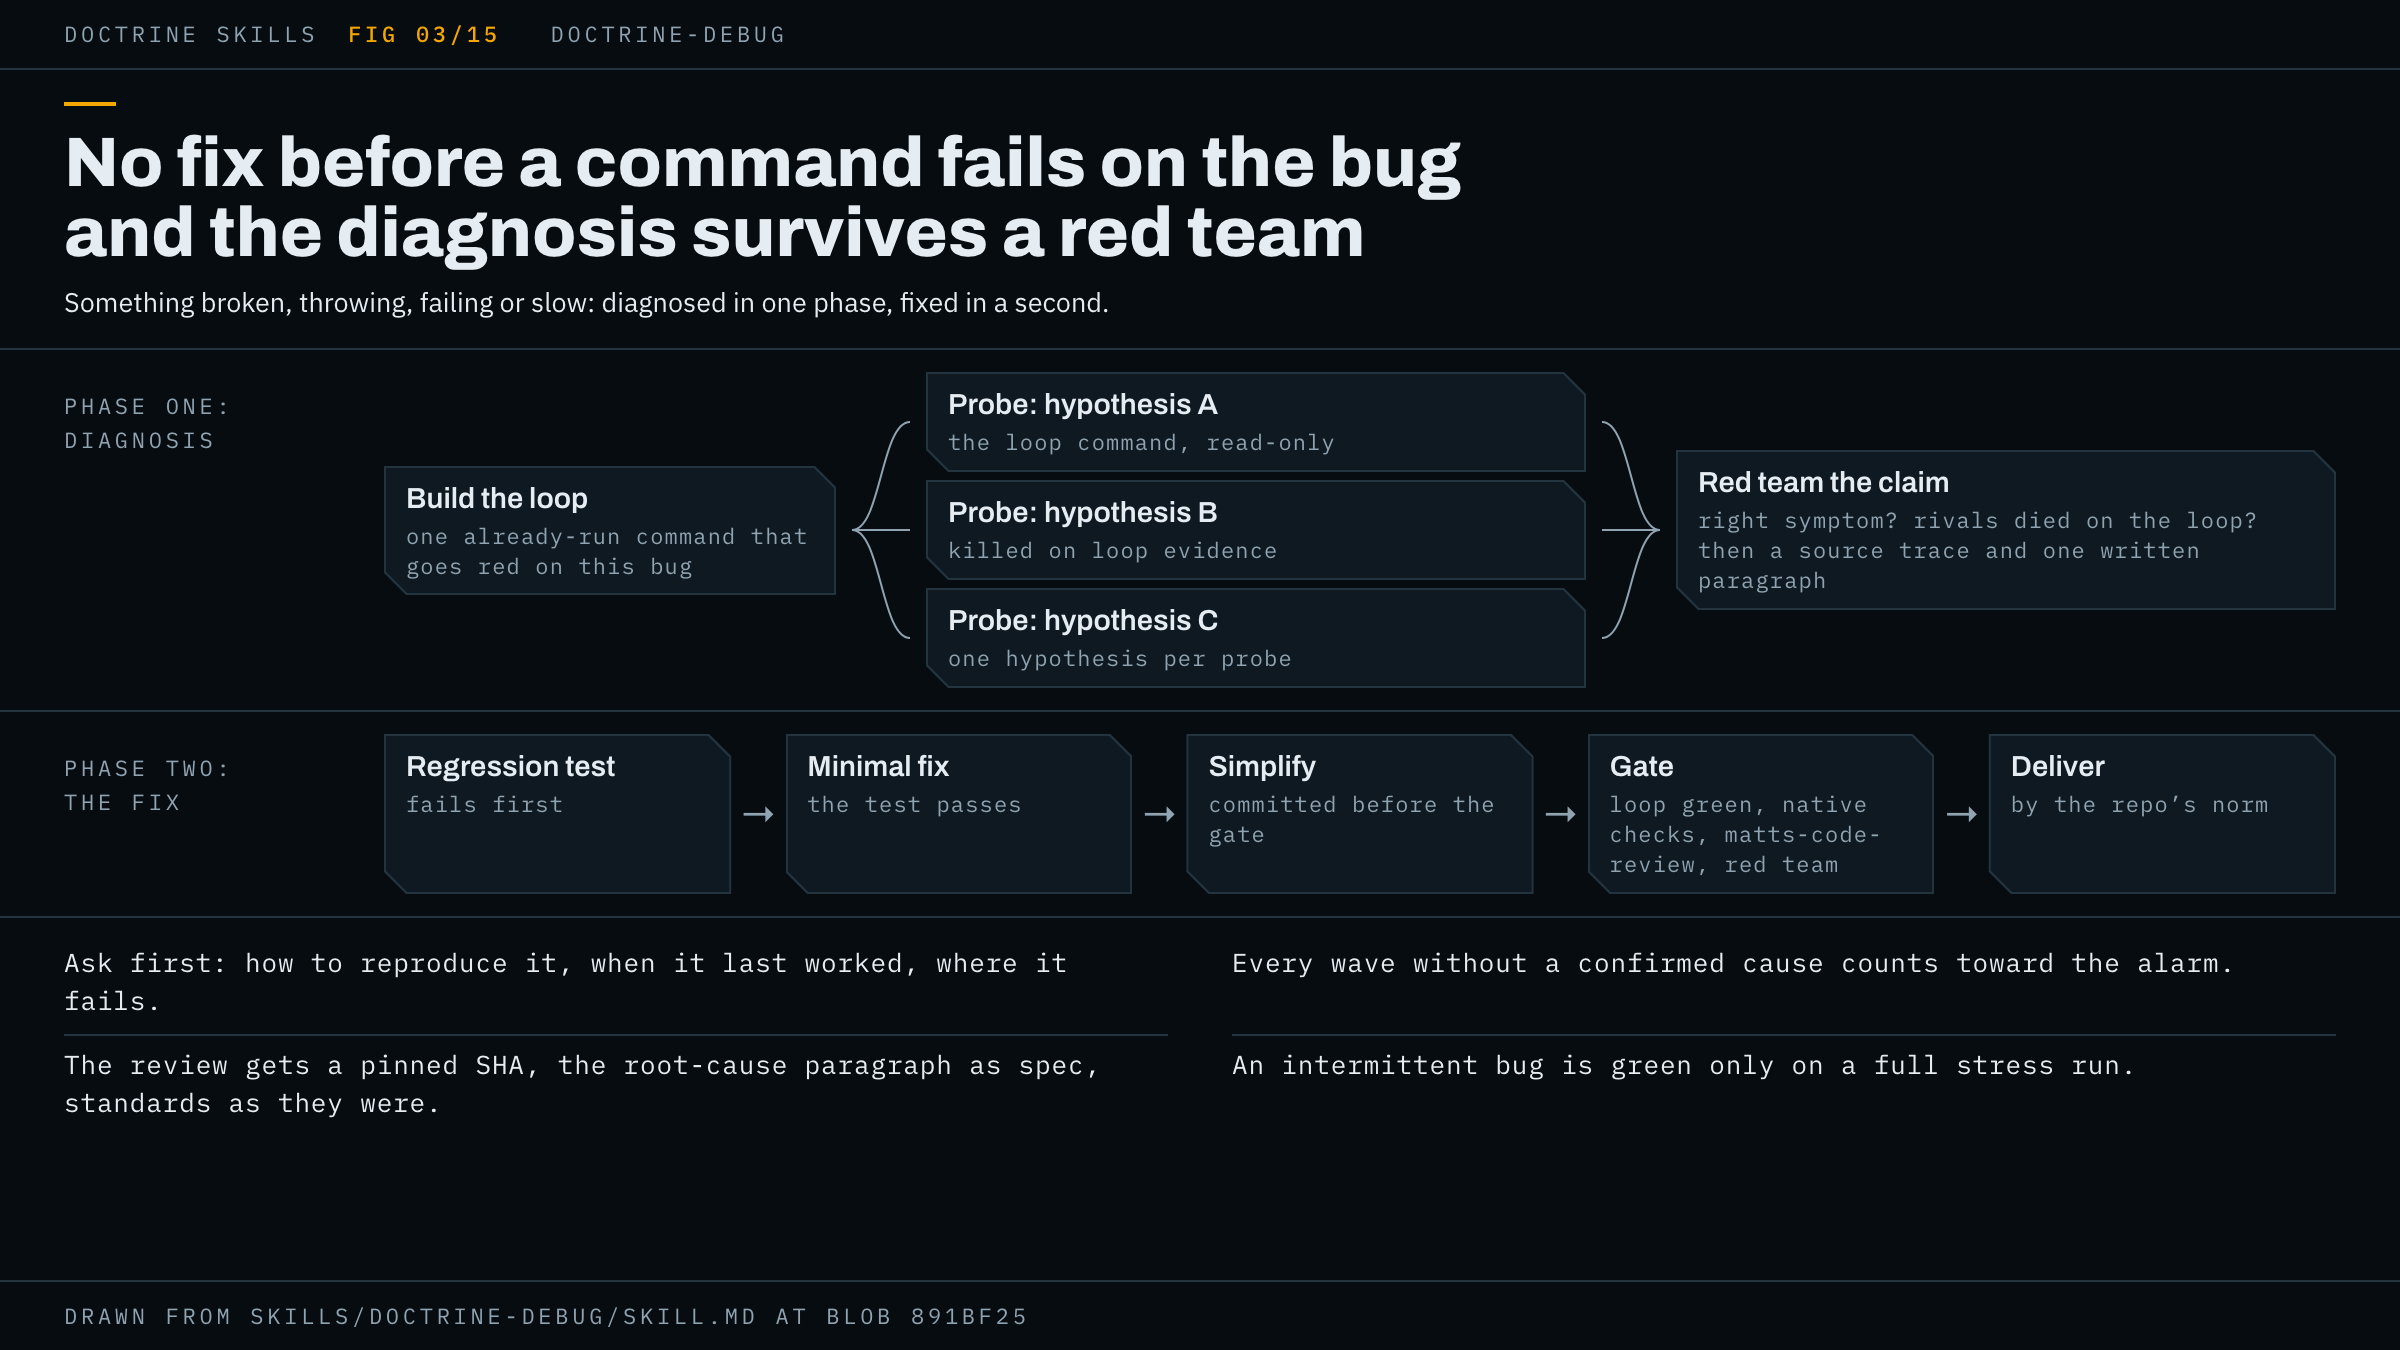
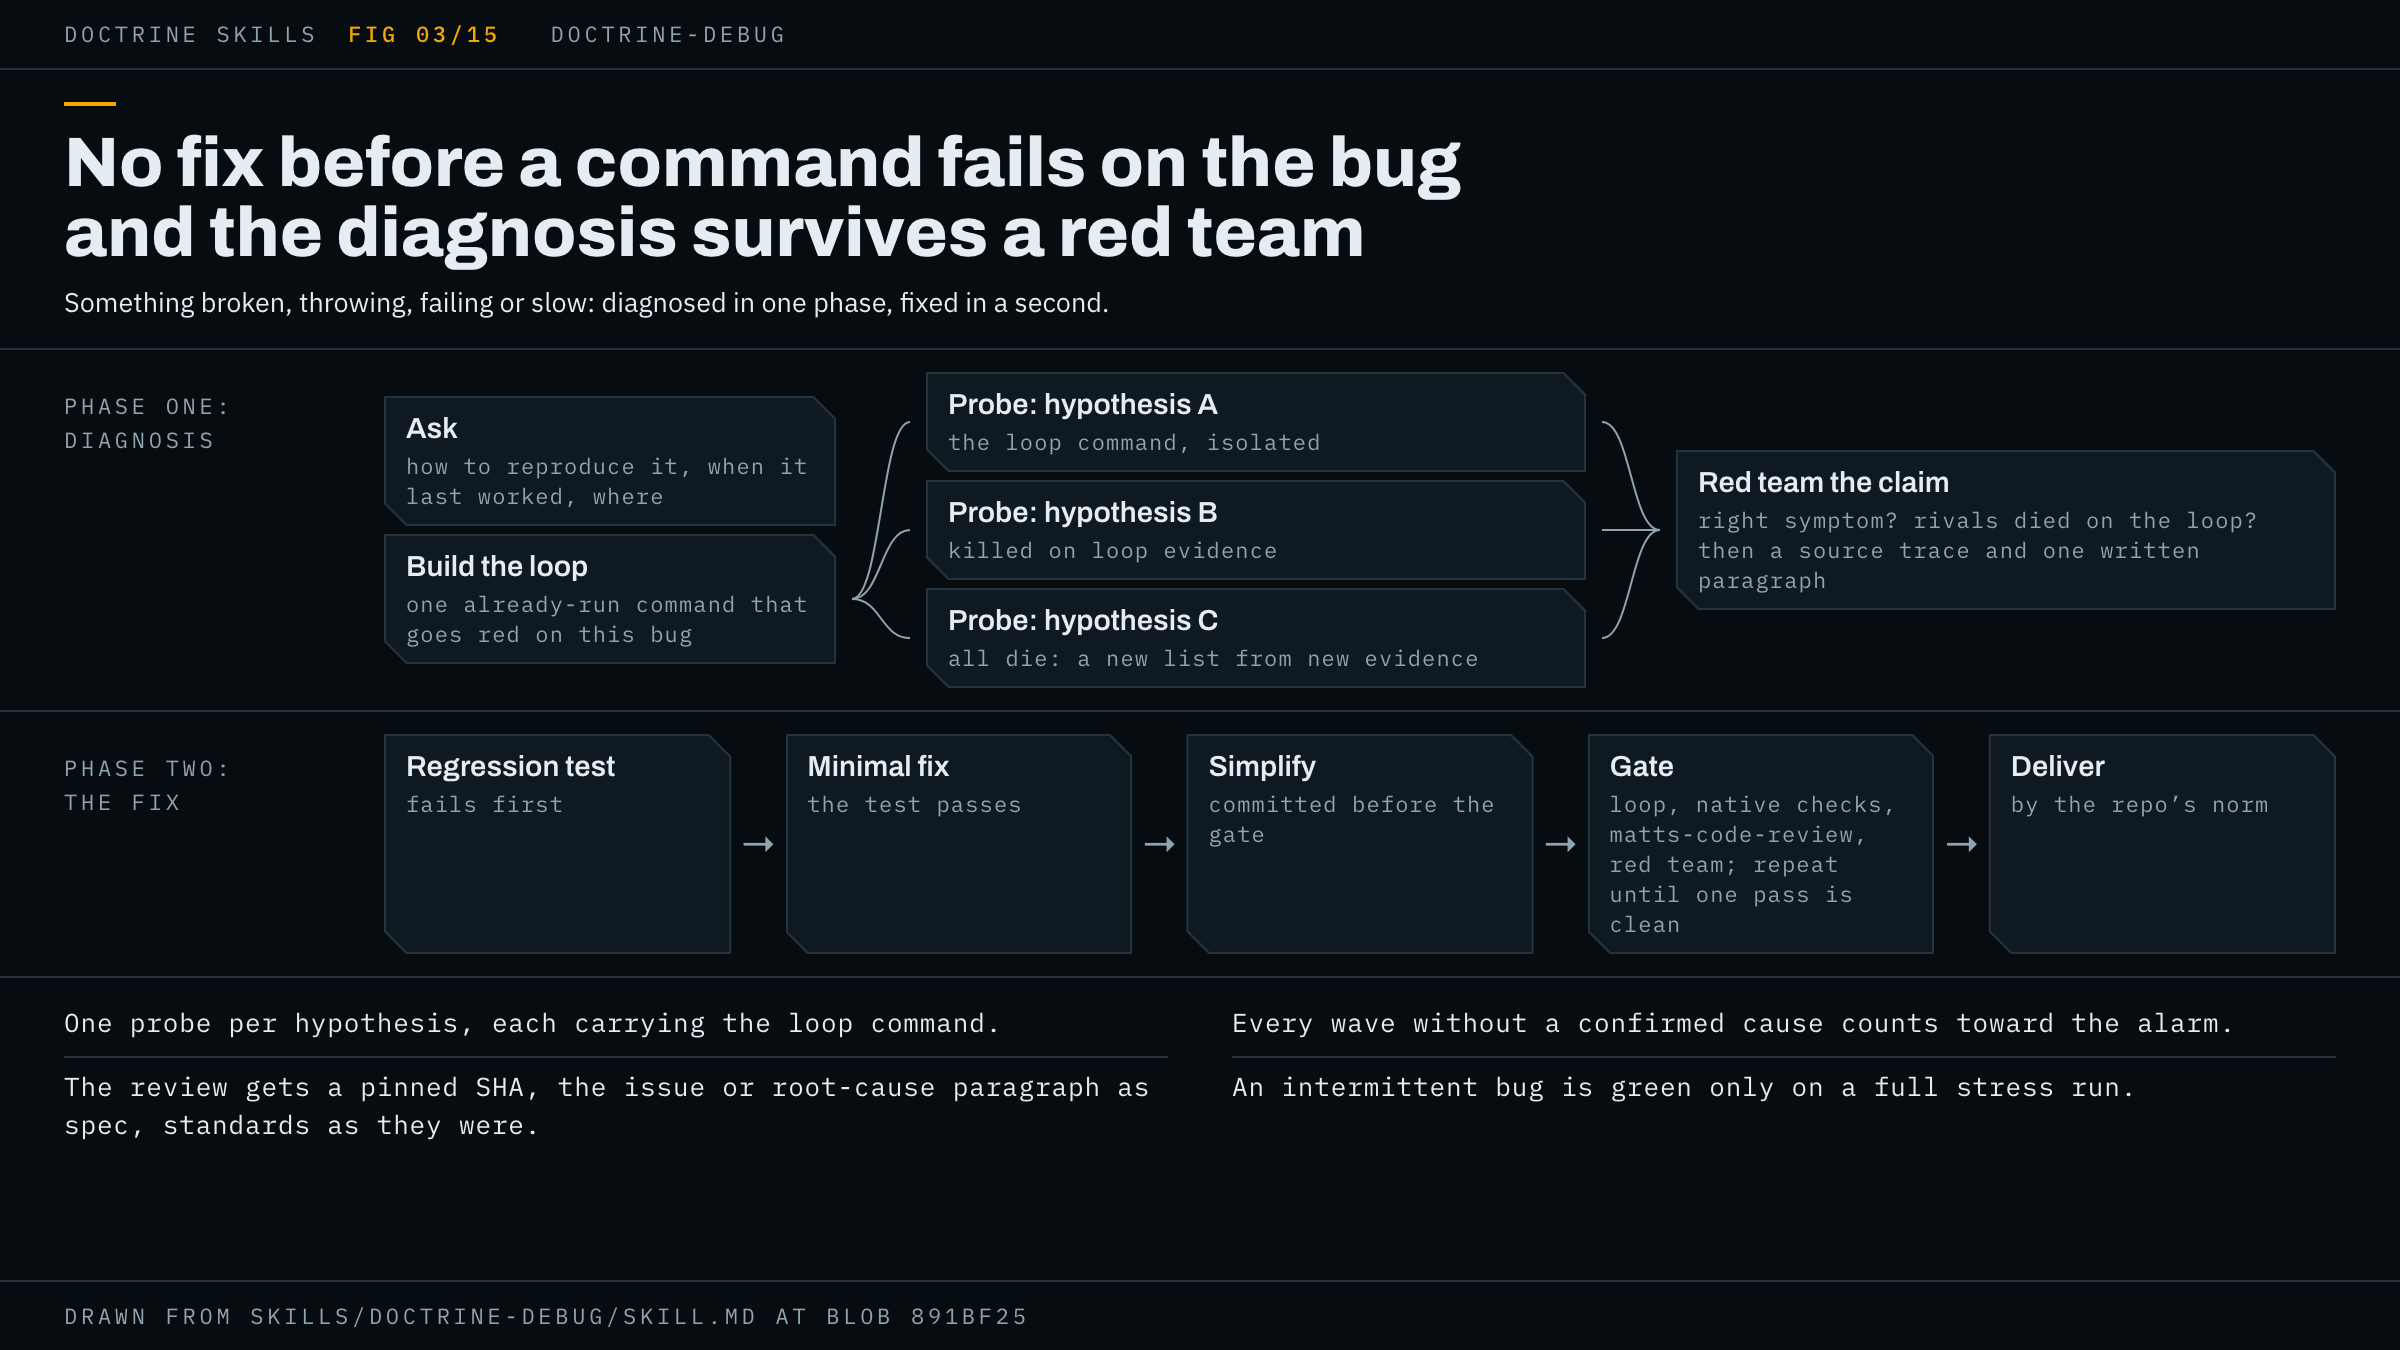
doctrine-debug page: the report's closing walk and deferred list, the gate's repeat, isolated probes, Ask in the figure

diff --git a/docs/skills/figures/doctrine-debug.html b/docs/skills/figures/doctrine-debug.html
@@ -19,12 +19,12 @@
 <section class="row">
   <div class="label">Phase one:<br>diagnosis</div>
   <div class="fan">
-    <div class="col" style="width:226px"><div class="box" id="loop"><b>Build the loop</b><span>one already-run command that goes red on this bug</span></div></div>
+    <div class="col" style="width:226px"><div class="box"><b>Ask</b><span>how to reproduce it, when it last worked, where</span></div><div class="box" id="loop"><b>Build the loop</b><span>one already-run command that goes red on this bug</span></div></div>
     <svg class="wires" data-from="#loop" data-to=".probe"></svg>
     <div class="col" style="width:330px">
-      <div class="box probe"><b>Probe: hypothesis A</b><span>the loop command, read-only</span></div>
+      <div class="box probe"><b>Probe: hypothesis A</b><span>the loop command, isolated</span></div>
       <div class="box probe"><b>Probe: hypothesis B</b><span>killed on loop evidence</span></div>
-      <div class="box probe"><b>Probe: hypothesis C</b><span>one hypothesis per probe</span></div>
+      <div class="box probe"><b>Probe: hypothesis C</b><span>all die: a new list from new evidence</span></div>
     </div>
     <svg class="wires" data-from=".probe" data-to="#red"></svg>
     <div class="col" style="flex:1"><div class="box" id="red"><b>Red team the claim</b><span>right symptom? rivals died on the loop? then a source trace and one written paragraph</span></div></div>
@@ -40,16 +40,16 @@
     <div class="arrow">→</div>
     <div class="box"><b>Simplify</b><span>committed before the gate</span></div>
     <div class="arrow">→</div>
-    <div class="box"><b>Gate</b><span>loop green, native checks, matts-code-review, red team</span></div>
+    <div class="box"><b>Gate</b><span>loop, native checks, matts-code-review, red team; repeat until one pass is clean</span></div>
     <div class="arrow">→</div>
     <div class="box"><b>Deliver</b><span>by the repo’s norm</span></div>
   </div>
 </section>
 
 <section class="notes">
-  <p>Ask first: how to reproduce it, when it last worked, where it fails.</p>
+  <p>One probe per hypothesis, each carrying the loop command.</p>
   <p>Every wave without a confirmed cause counts toward the alarm.</p>
-  <p>The review gets a pinned SHA, the root-cause paragraph as spec, standards as they were.</p>
+  <p>The review gets a pinned SHA, the issue or root-cause paragraph as spec, standards as they were.</p>
   <p>An intermittent bug is green only on a full stress run.</p>
 </section>
 

diff --git a/docs/skills/doctrine-debug.md b/docs/skills/doctrine-debug.md
@@ -2,7 +2,7 @@
 
 Diagnose and fix one reported defect under the doctrine. The run builds a command that fails on the bug, tests hypotheses in parallel against it, red-teams the diagnosis before any fix is written, and then gates the fix.
 
-![doctrine-debug in two phases. Diagnosis: ask, build the feedback loop, a wave of read-only probes with one hypothesis each, then a red team on the root-cause claim. Fix: regression test first, minimal fix, simplification, then the gate of loop, native checks, matts-code-review and red team, then delivery.](doctrine-debug.png)
+![doctrine-debug in two phases. Diagnosis: ask, build the feedback loop, a wave of isolated probes with one hypothesis each, a new list when all die, then a red team on the root-cause claim. Fix: regression test first, minimal fix, simplification, then the gate of loop, native checks, matts-code-review and red team, repeated until one pass comes clean, then delivery.](doctrine-debug.png)
 
 ## When it fires
 
@@ -14,7 +14,7 @@ Pick another skill when the work is not one known defect. A hunt for bugs you ha
 
 It starts with the open questions about the bug: how to reproduce it, when it last worked, and the environment it fails in. Your answers go into the run's record verbatim as the anchor, and every reviewer gets them, so the fix is judged against what you said was wrong.
 
-Two other things are yours to set. If the bug lives on a host the agent must log into (a router, a switch, a console, a box over SSH), say whether you want a [`doctrine-pane`](doctrine-pane.md) session to watch and take over. The agent opens one only if you ask. Otherwise it runs the commands non-interactively and the report says a pane would have shown more. You can also set the alarm figures: the round count and the time budget. Without them the hub's defaults apply, 4 and two hours.
+Two other things are yours to set. If the bug lives on a host the agent must log into (a router, a switch, a console, a box over SSH), say whether you want a [`doctrine-pane`](doctrine-pane.md) session to watch and take over. The agent opens one only if you ask. Otherwise it runs the commands non-interactively and the report says a pane would have shown more. You can also set the alarm figures: how many rounds that find a blocking problem the run may take before it stops and asks you, and the time budget. Without them the hub's defaults apply, 4 rounds and two hours.
 
 ## How a run goes
 
@@ -22,15 +22,15 @@ The core discipline is Matt Pocock's `diagnosing-bugs` skill, followed phase by 
 
 ### Phase one: the diagnosis
 
-**Build the feedback loop.** The skill tells the agent to spend disproportionate effort here. The loop is done only when the agent can name one command, already run, that goes red on this bug. Without a local way to reproduce it (no local database, a UI behind a login), the agent uses your project's documented CI or production-probe paths, or stops and asks you. It does not guess at causes without a loop.
+**Build the feedback loop.** The wrapper tells the agent to spend disproportionate effort here. The loop is done only when the agent can name one command, already run, that goes red on this bug. Without a local way to reproduce it (no local database, a UI behind a login), the agent uses your project's documented CI or production-probe paths, or stops and asks you. It does not guess at causes without a loop.
 
 **Test hypotheses as a wave.** When more than one cause is live, the agent sends one probe per hypothesis, in parallel. Each probe's prompt carries the loop command, the output already in hand, the symptom, the one hypothesis it owns, and its isolation, with read-only stated in the prompt itself. A probe handed only "test hypothesis 3" reads code and calls that evidence, which is why the command goes in every prompt. Hypotheses die on evidence from the loop. If all of them die, the agent builds a new list from what it learned rather than reusing the old one.
 
-**Count the waves that fail.** This phase runs no review gate, so the hub's round alarm would never fire here. The wrapper counts instead: one for every wave that ends without a confirmed root cause, whether every hypothesis died, a survivor could not be proved, or the evidence was inconclusive. The count is kept on disk. When it reaches a multiple of the round-alarm figure, the run stops and puts the hub's diagnosis to you, with this count where the round count would be. The hub's time alarm applies as written.
+**Count the waves that fail.** This phase runs no review gate, so the hub's round alarm would never fire here. The wrapper counts instead: one for every wave that ends without a confirmed root cause, whether every hypothesis died, a survivor could not be proved, or the evidence was inconclusive. The count is kept on disk. When it reaches a multiple of the rounds figure, 4 unless you set another, the run stops and puts the hub's diagnosis to you, with this count where the round count would be. The hub's time alarm applies as written.
 
 **Red-team the diagnosis before any fix.** The red team gets the symptom, the loop, the root-cause claim, the surviving probe's return, each killed hypothesis with its evidence, and Phase 1 of `diagnosing-bugs` as the standard for the loop. It is asked to refute the claim on two points: does the loop reproduce the symptom you reported, not a neighbouring one, and did every rival hypothesis die on evidence from the loop rather than on code-reading. The agent checks each counter-claim against source.
 
-The diagnosis phase ends when the claim survives that red team and the agent's own trace through the source. The agent then writes the claim down where the fix will land, in one paragraph: the symptom, the loop command, the root cause and the source evidence. That paragraph is the phase's deliverable, where a later session resumes from, and the spec the fix's review reads.
+The diagnosis phase ends when the claim survives that red team and the agent's own trace through the source. The agent then writes the claim down where the fix will land, in one paragraph: the symptom, the loop command, the root cause and the source evidence. That paragraph is the phase's deliverable, the point a later session resumes from, and the spec the fix's review reads.
 
 ### Phase two: the fix
 
@@ -38,17 +38,17 @@ The diagnosis phase ends when the claim survives that red team and the agent's o
 
 **Simplify before the gate.** A simplification review of the fix runs and is committed before the gate's checks start, and again on each repair before the pass that re-checks it. The wrapper's rule of thumb: a bug fix that adds a new abstraction is usually the wrong fix.
 
-**Gate the fix.** Each pass runs the loop, which must be green, the project's own documented checks, `matts-code-review` on the fix diff, and a red team on the diff. The phase exits on one clean pass, as the hub defines it. For an intermittent bug, green means the full stress run clean, sized against the reproduction rate Phase 1 measured, never one lucky run.
+**Gate the fix.** Each pass runs four checks: the loop, which must be green, the project's own documented checks, `matts-code-review` on the fix diff, and a red team on the diff. A pass that finds a blocking problem leads to a repair and another pass. The phase exits on one clean pass, as the hub defines it. For an intermittent bug, green means the full stress run clean, sized against the reproduction rate Phase 1 measured, never one lucky run.
 
 The fix's red team also gets the written root-cause claim, that reproduction rate (or word that the loop is deterministic), and your project's standards as they read before the fix. It answers three questions: does the regression test fail without the fix, is the fix minimal, and do other callers carry the same fault.
 
-## How the review is pointed
+### How the review is pointed
 
 The agent gives `matts-code-review` three things so it reviews the fix and nothing else:
 
-- **The fixed point.** The agent reads `git rev-parse HEAD` before writing the regression test and passes that commit. Without one, the review stops and asks you, twice a phase. Given `main` or the merge-base, it re-reviews work already merged.
+- **The fixed point.** The agent reads `git rev-parse HEAD` before writing the regression test and passes that commit. Sent without one, the review stops to ask you for it, twice a phase. Given `main` or the merge-base, it re-files findings from work already merged, and the gate counts them against the current pass.
 - **A spec.** The bug's tracker issue, or the root-cause paragraph. Without one, its Spec reviewer skips with "no spec available" and the review covers one axis of two. An issue reference resolves only where `docs/agents/issue-tracker.md` exists, so otherwise the agent passes a file path.
-- **The standards as they were.** Each standards file as it read at the fixed point, from `git show <sha>:<path>` or a worktree kept at that commit until the review returns. Read from the changed tree, a fix that loosened a standard would be judged by the loosened version.
+- **The standards as they were.** Each standards file as it read at the fixed point, from `git show <sha>:<path>` or a worktree kept at that commit until the review returns. If the review read the standards from the changed tree, a fix that loosened a standard would be judged by the loosened version.
 
 ## How it ends
 
@@ -58,6 +58,8 @@ Delivery follows your repository's norm, a commit or a pull request. The report 
 Gate: clean pass on 4a3e4ca, real run on record. No blockers open.
 ```
 
+Below that line the report gives the path of the run's record, which sits beside the work and outside version control, names what filled each slot of the gate, lists the improvements it deferred, and walks your original request item by item, saying where each landed or why it was deferred.
+
 Each phase ends in one of the hub's five states: Exited (the only clean one), Stopped, Shipped at an escalation, Blocked, or Unable. A run that stops on an alarm asks you whether to continue or ship, with a diagnosis of what shipping now would mean.
 
 ## How to invoke it
@@ -65,7 +67,7 @@ Each phase ends in one of the hub's five states: Exited (the only clean one), St
 Say what fails and what you know about when it broke. Those are the first questions it would ask.
 
 ```text
-use doctrine-debug: `npm run export -- --since=2026-09-01` throws a KeyError since last week, passed on the 3rd, same trace in CI. Diagnose and fix it.
+use doctrine-debug: `npm run export -- --since=2026-09-01` throws `TypeError: Cannot read properties of undefined` since last week, passed on the 3rd, same trace in CI. Diagnose and fix it.
 ```
 
 ## Requirements
@@ -77,7 +79,7 @@ Nothing must be installed. Each dependency has a fallback:
 - A red team from the other model family: on Claude Code, OpenAI's codex plugin. Without it, a fresh-context subagent of the same model, and the report says so.
 - superpowers, for the parallel probe wave. Without it, parallel subagents, each with its prompt written out in full.
 - ponytail, for the simplification review. Without it, `/simplify` or a manual pass that deletes what nobody asked for.
-- `doctrine-pane` and [herdr](https://herdr.dev) 0.8.2 or later, only for a pane you asked for. Without them the step runs non-interactively and is recorded as not run.
+- `doctrine-pane` and [herdr](https://herdr.dev) 0.8.2 or later, only for a pane you asked for. Without them the agent runs the commands non-interactively and records the interactive step as not run.
 
 Every substitution is written in the record and named in the exit statement. Install commands are in [requirements](../requirements.md).
 
